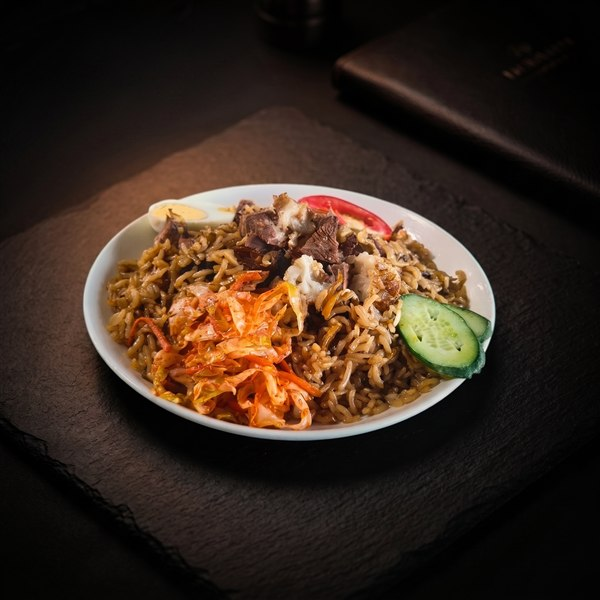
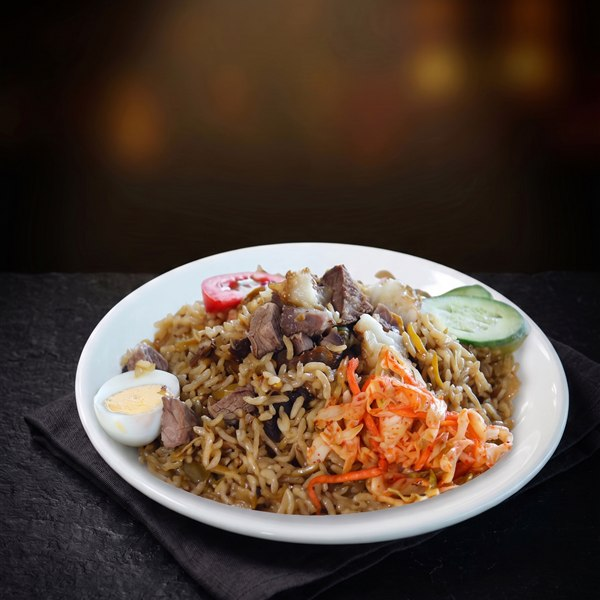
Update Plov photo and add weight/price variants

diff --git a/app/data/menu.ts b/app/data/menu.ts
@@ -104,7 +104,7 @@ export const menuCategories: MenuCategory[] = [
     label: 'Блюда',
     defaultImage: 'https://images.unsplash.com/photo-1512058564366-18510be2db19?w=400&h=260&fit=crop',
     items: [
-      { name: 'Плов', price: 295, image: '/images/plov.jpg' },
+      { name: 'Плов', price: 295, image: '/images/plov.jpg', variants: [{ label: '300 г', price: 295 }, { label: '1 кг', price: 2400 }] },
     ],
   },
   {